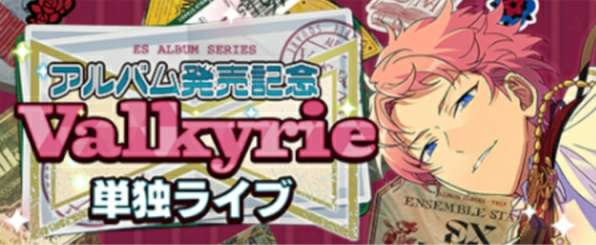
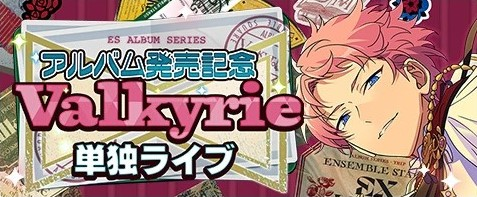
update valkyrie mc directory

diff --git a/story/misc/valkyrie mc/directory.html b/story/misc/valkyrie mc/directory.html
@@ -67,7 +67,7 @@
 	  <div class=text>
 			<div class="info-block">
 				<div class="cover-block">
-					<img src="COVER">
+					<img src="/media/misc/valkyrie mc/valkyrie_album_release_cover.jpg">
 					<div class="title-block">
 						<h2 class="title"><b>Album Release Commemoration: Valkyrie Solo Live</b></h2>
 						<p class="subtitle">アルバム発売記念『Valkyrie』単独ライブ</p>
@@ -123,7 +123,7 @@
 			              <div class="label">
 			                Logo
 			              </div>
-			              <img src="LOGO">
+			              <img src="/media/misc/valkyrie mc/logo.png">
 			            </div>
 			          </div>
 			        </div>
@@ -132,7 +132,7 @@
 				</div>
 		</blockquote><div class="storysection">
 			<br>
-			<div class="storysectiontitle"><b>MC</b> MC</div>
+			<div class="storysectiontitle"><b>MC</b></div>
 			<div class="directorylink"><a class="storybutton" href="1">1</a><div class="summarypreview"><p><b>Characters:</b> Mika, Shu</p></div></div>
 			<div class="directorylink"><a class="storybutton" href="2">2</a><div class="summarypreview"><p><b>Characters:</b> Mika, Shu</p></div></div>
 			<div class="directorylink"><a class="storybutton" href="3">3</a><div class="summarypreview"><p><b>Characters:</b> Mika, Shu</p></div></div>
